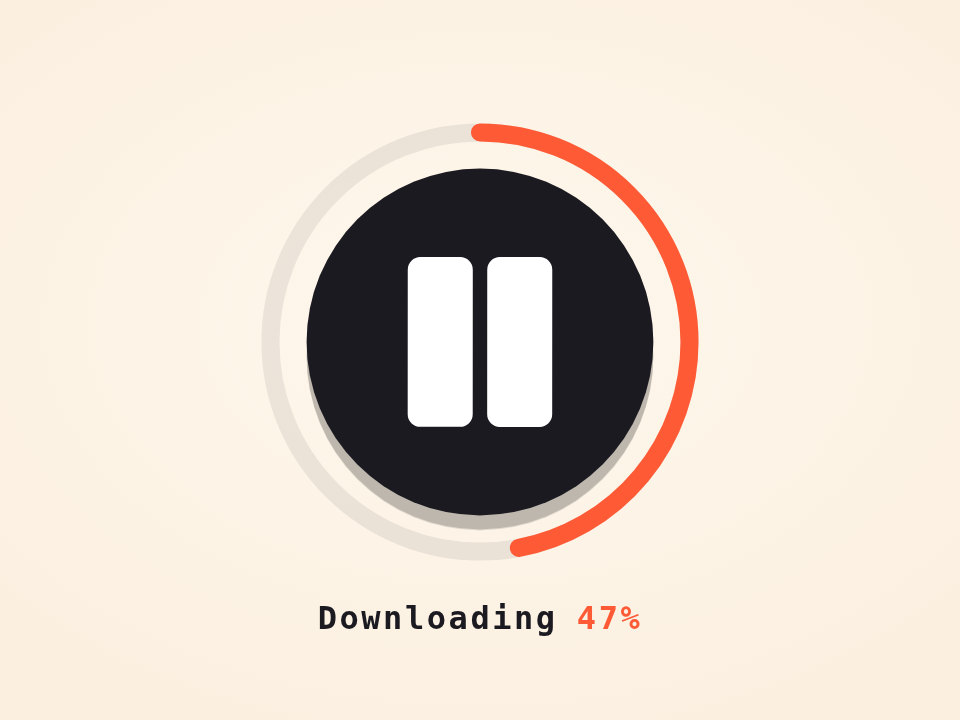
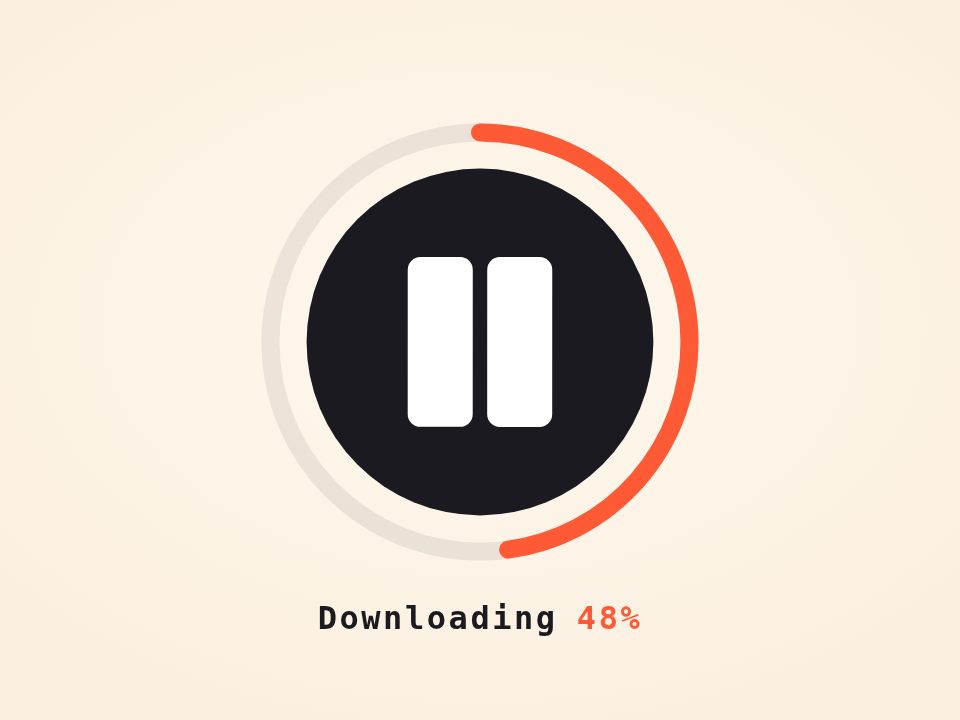
Morphing Download: close the notch at the bottom of the checkmark
- Done shape was two separate bars butted at the elbow, leaving a V-shaped notch on the outer (bottom) corner; build it as a mitered polyline so both quads share one edge
- Weld coincident vertices while morphing so staggered springs can't pull the shared edge apart (no seam/spike mid-morph)
- Drop the offset drop-shadow under the disc that read as a dark crescent/gap above the track at the bottom

diff --git a/effects/morph-download/script.js b/effects/morph-download/script.js
@@ -16,19 +16,35 @@ if (LANG === 'en') { document.documentElement.lang = 'en'; [].forEach.call(docum
     var dx = x2 - x1, dy = y2 - y1, l = Math.hypot(dx, dy), nx = -dy / l * w / 2, ny = dx / l * w / 2;
     return [[x1 + nx, y1 + ny], [x2 + nx, y2 + ny], [x2 - nx, y2 - ny], [x1 - nx, y1 - ny]];
   }
+  // 折线 A→B→C 加粗成两个四边形，拐点用斜接（miter）点共享同一条边——
+  // 直接拼两根 bar 的话，拐角外侧会缺一个 V 形口子（对勾底部那块缺口就是这么来的）
+  function elbow(ax, ay, bx, by, cx, cy, w) {
+    var s1 = bar(ax, ay, bx, by, w), s2 = bar(bx, by, cx, cy, w);
+    function cross(p, q, r, s) { // 直线 pq 与 rs 的交点
+      var d = (p[0] - q[0]) * (r[1] - s[1]) - (p[1] - q[1]) * (r[0] - s[0]);
+      var t = ((p[0] - r[0]) * (r[1] - s[1]) - (p[1] - r[1]) * (r[0] - s[0])) / d;
+      return [p[0] + t * (q[0] - p[0]), p[1] + t * (q[1] - p[1])];
+    }
+    var mo = cross(s1[0], s1[1], s2[0], s2[1]), mi = cross(s1[3], s1[2], s2[3], s2[2]);
+    return [s1[0], mo, mi, s1[3], mo, s2[1], s2[2], mi];
+  }
   var SHAPES = {
     idle:  bar(50, 20, 50, 56, 12).concat([[28, 50], [50, 76], [50, 76], [72, 50]]),
     load:  bar(39, 30, 39, 70, 11).concat(bar(61, 30, 61, 70, 11)),
     pause: [[38, 27], [55, 37], [55, 63], [38, 73], [55, 37], [74, 50], [74, 50], [55, 63]],
-    done:  bar(28, 52, 44, 68, 11).concat(bar(44, 68, 73, 35, 11))
+    done:  elbow(28, 52, 44, 68, 73, 35, 11)
   };
   var LABEL = LANG === 'en' ? { idle: 'Download', load: 'Downloading', pause: 'Paused', done: 'Done' } : { idle: '下载', load: '下载中', pause: '已暂停', done: '完成' };
   var pts = SHAPES.idle.map(function (p) { return { x: p[0], y: p[1], vx: 0, vy: 0, tx: p[0], ty: p[1], at: 0 }; });
   var rot = 0, vr = 0, sc = 1, vs = 0, state = 'idle', prog = 0, shown = 0;
+  var welds = [], weldT0 = -1e9, WELD = 160; // 焊接在 160ms 内渐进完成，避免起始帧跳一下
 
   function go(s) {
     var now = performance.now(), from = state; state = s;
     SHAPES[s].forEach(function (p, i) { pts[i].tx = p[0]; pts[i].ty = p[1]; pts[i].at = now + i * STAG; });
+    // 目标形状里重合的顶点（两块拼接处的公共边）要“焊”在一起：各自弹簧+错峰会让它们短暂分开，拼缝处露出尖角或缺口
+    welds = []; SHAPES[s].forEach(function (p, i) { SHAPES[s].forEach(function (q, k) { if (k > i && Math.abs(p[0] - q[0]) + Math.abs(p[1] - q[1]) < .01) welds.push([i, k]); }); });
+    weldT0 = now;
     if (from === 'idle' && s === 'load') vr = -720;      // 进入下载：拧一下
     if (s === 'pause' || (from === 'pause' && s === 'load')) vr = 520;
     if (s === 'done') { vr = -360; vs = 3; spark(); }
@@ -49,7 +65,13 @@ if (LANG === 'en') { document.documentElement.lang = 'en'; [].forEach.call(docum
 
   function poly(a) { return 'M' + a.map(function (p) { return p.x.toFixed(2) + ' ' + p.y.toFixed(2); }).join('L') + 'Z'; }
   function render() {
-    p1.setAttribute('d', poly(pts.slice(0, 4))); p2.setAttribute('d', poly(pts.slice(4)));
+    var v = pts.map(function (p) { return { x: p.x, y: p.y }; });
+    var f = Math.min(1, (performance.now() - weldT0) / (reduce ? 1 : WELD)); f = f * f * (3 - 2 * f);
+    welds.forEach(function (w) {
+      var a = v[w[0]], b = v[w[1]], mx = (a.x + b.x) / 2, my = (a.y + b.y) / 2;
+      a.x += (mx - a.x) * f; a.y += (my - a.y) * f; b.x += (mx - b.x) * f; b.y += (my - b.y) * f;
+    });
+    p1.setAttribute('d', poly(v.slice(0, 4))); p2.setAttribute('d', poly(v.slice(4)));
     icon.setAttribute('transform', 'rotate(' + rot.toFixed(2) + ' 50 50)');
     btn.style.transform = 'scale(' + sc.toFixed(4) + ')';
     ring.style.strokeDasharray = shown.toFixed(2) + ' 100';

diff --git a/effects/morph-download/style.css b/effects/morph-download/style.css
@@ -23,7 +23,7 @@ body {
 .btn svg { width: 100%; height: 100%; overflow: visible; display: block; }
 .track { fill: none; stroke: rgba(28, 26, 33, .08); stroke-width: 5; }
 .ring { fill: none; stroke: var(--accent); stroke-width: 5; stroke-linecap: round; stroke-dasharray: 0 100; transform: rotate(-90deg); transform-origin: 50px 50px; }
-.disc { fill: var(--ink); transition: fill .35s; filter: drop-shadow(0 4px 0 rgba(0, 0, 0, .25)); }
+.disc { fill: var(--ink); transition: fill .35s; }  /* 不加偏移投影：底部那一圈深色月牙会让圆盘和轨道之间看着像缺了一块 */
 .done .disc { fill: var(--ok); }
 .done .ring { stroke: var(--ok); }
 .ring { transition: stroke .35s; }
